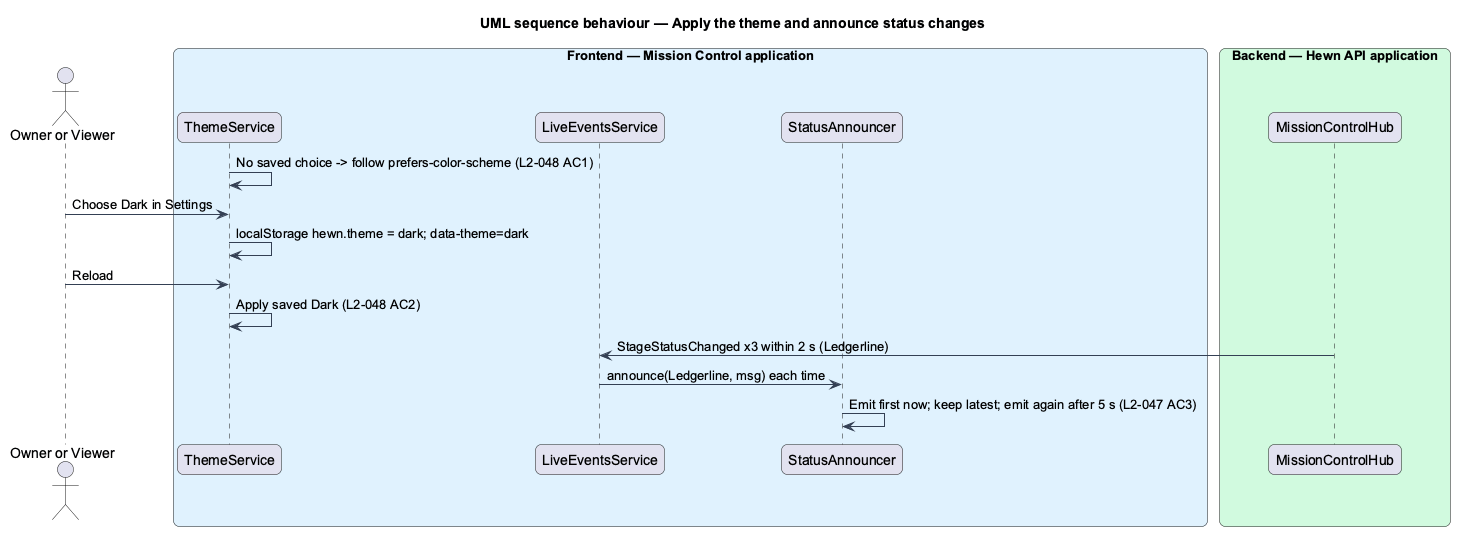
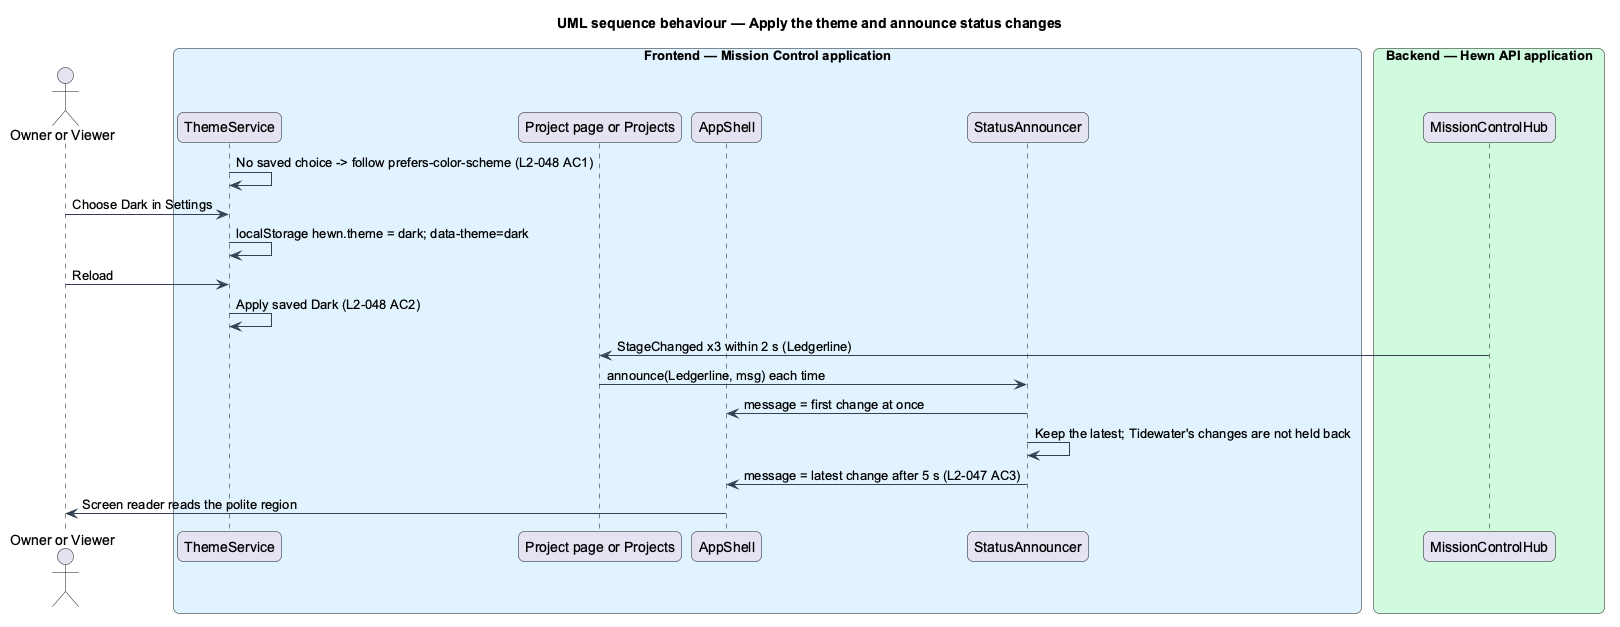
Describe the shared announcer and the accessibility suite as built
The responsive and accessible UI design's StatusAnnouncer and test suite
now say what journey 34 built, with the decisions made along the way;
the class and sequence diagrams show the shell rendering the announcer's
message and both pages feeding it.

Traces to: L2-047

Claude-Session: https://claude.ai/code/session_01LjZiMqftK4BJirXGfFyqYe

diff --git a/docs/detailed-designs/mission-control/responsive-accessible-ui/README.md b/docs/detailed-designs/mission-control/responsive-accessible-ui/README.md
@@ -20,10 +20,10 @@ The slice is a set of shared Angular building blocks plus the tests that hold ev
 
 - **`AppShell`** — layout component. The sidebar's content is one template, shown in the fixed sidebar from 992 px. Below 992 px the top bar shows Open menu, the wordmark and the connection dot, and Open menu shows the same template in a menu drawer, a CDK Dialog labelled "Menu". Focus starts on Close menu, stays in the drawer, and returns to Open menu. The drawer closes on Escape, on Close menu, on a tap beside it, on navigating, and when the window widens to 992 px.
 - **Layout bands** — CSS media queries in the design system on the token breakpoints (36, 48, 62 and 75 rem) set the columns, the pipeline (a list, then a stepper, then a column beside the detail) and control sizes. The shell's one `matchMedia('(min-width: 62rem)')` closes the drawer; nothing else needs to know the band.
-- **`StatusAnnouncer`** — single polite live region. It queues stage status messages per project and emits at most one per project every 5 seconds.
+- **`StatusAnnouncer`** — root service behind the shell's one polite live region (`role="status"`). A project's first stage change is said at once; changes within its next 5 seconds wait, and only the latest is said when the time is up. Each project is throttled on its own. The project page feeds it each `StageChanged` event ("Stage 2, Designs, Running"), and Projects feeds it when a live row's stage or status changes ("Kiln Booking, stage 2, Designs, Running").
 - **`ThemeService`** — reads `localStorage['hewn.theme']` (`light`, `dark` or `system`), applies `data-theme` on `<html>`, and follows `prefers-color-scheme` when the value is `system` or absent.
 - **`Design tokens`** — `tokens.css` with light and dark values; motion tokens resolve to `0ms` under `prefers-reduced-motion: reduce`.
-- **`AccessibilitySuite`** — Playwright e2e suite that visits every route in every mocked state and runs axe-core, and a keyboard walk that tabs through each page and checks for focus visibility and traps.
+- **`AccessibilitySuite`** — Playwright e2e tests that run axe-core on every route in every state the app has (each page's own spec, plus every page while loading and when its data fails), a keyboard walk that tabs through each page checking for a visible focus indicator at every stop and for traps, keyboard-only journeys, and a reduced-motion check that nothing runs longer than 0.01 ms.
 - **`PerformanceBudget`** — Angular build budget of 500 KB gzipped initial JavaScript with every route lazy-loaded, a Lighthouse mobile run on Projects in CI (LCP 2.5 s or less), a read-API load test at 50 projects and 20 workers (p95 300 ms or less), and an event load test at 200 events per second (p95 1 s or less).
 
 ## Requirements
@@ -82,3 +82,23 @@ The theme follows the OS until chosen, then persists (L2-048 AC1, AC2). Status c
   wider than the viewport in 91 page and width pairs. What was missing below 992 px was any way to navigate.
 - **The drawer's container is the drawer.** The app's CDK dialog container usually covers the viewport; the menu's is
   sized to the drawer (`drawer-pane`), so a tap beside the drawer reaches the backdrop and closes it.
+
+## Decisions made while building keyboard and assistive technology support (journey 34)
+
+- **One announcer, throttled per project.** The project page had its own live region, throttled as a whole, and
+  Projects, which also changes rows live, announced nothing. The shell now renders the one region and
+  `StatusAnnouncer` throttles each project separately. The region holds one message at a time (the latest), so two
+  projects changing in the same instant can replace each other before a screen reader reaches the first; each
+  project's next change is said within 5 seconds, so nothing stays unsaid for long.
+- **Focus indicators are checked after they ease in.** Fields draw their focus ring as an inset shadow that
+  transitions in; the keyboard walk reads each stop's style once its transitions finish, and counts an outline or the
+  `--color-focus-ring` shadow as the indicator.
+- **A trap is a loop that never comes back.** The walk marks each element it lands on. Landing on the first stop
+  again, or on the page itself, means focus came round; landing on another stop already seen is a trap. Modal dialogs
+  and the drawer hold focus on purpose and are left with Escape, which their own tests check.
+- **Settings has a loading state.** It showed the configured defaults, editable, until the saved ones arrived; it now
+  shows the section skeletons of `pages/settings/loading.html`.
+- **What was already there.** Every page's focus indicator, the keyboard paths through New direction and Cancel, the
+  reduced-motion tokens and the axe-clean states were in place; the new tests hold them.
+- **Not built here.** The Dashboard mocks and the sidebar's Dashboard link have no page yet (`/dashboard` shows Page
+  not found), and the `server-error` mock has no page: each page shows its own failure state, which the suite scans.

diff --git a/CHANGELOG.md b/CHANGELOG.md
@@ -14,6 +14,12 @@ and this project adheres to [Semantic Versioning](https://semver.org/spec/v2.0.0
 
 ### Added
 
+- Use keyboard and assistive technology (journey 34, L2-047): stage changes are announced from the shell's one polite
+  live region, at most once every 5 seconds per project, on the project page and now on Projects too. Settings shows
+  section skeletons while the saved defaults load. Acceptance tests run axe-core on every page while loading and when
+  its data fails, tab through every page checking the focus indicator at each stop and for traps, complete sign-in
+  and a direction's submission and cancellation by keyboard alone, and check that nothing animates under reduced
+  motion.
 - Use Mission Control on mobile (journey 33, L2-046): below 992 px the top bar's Open menu shows the sidebar as a
   menu drawer that keeps focus, and closes on Escape, a tap beside it, navigating or widening the window. Below
   992 px every button, field and tab is a 44 px touch target; from 992 px controls stay 32 and 40 px (ADR 0034).
